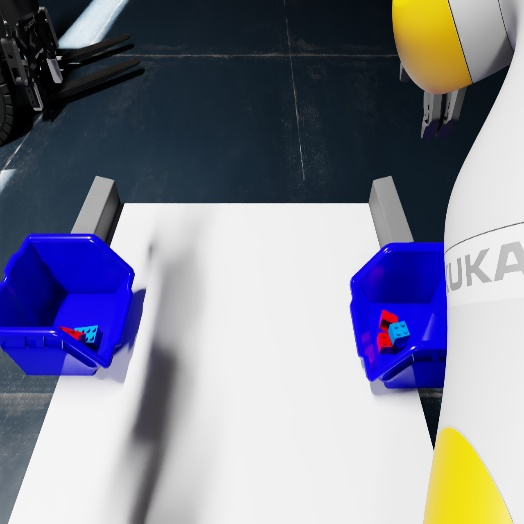
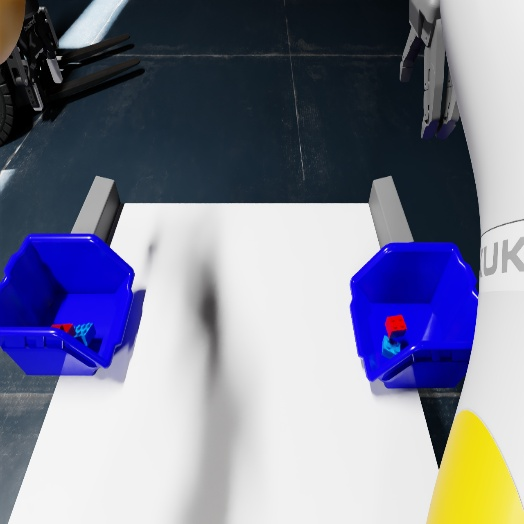
Test 4 run 1

diff --git a/p6_ws/src/robutler/object_detector/object_detector/object_detector.py b/p6_ws/src/robutler/object_detector/object_detector/object_detector.py
@@ -393,9 +393,13 @@ class ObjectDetector(Node):
                 grasps = self.grasp_prediction(point_cloud_masked, num_candidates=1) # num_candidates is the number of grasps to be generated
                 self.get_logger().info(f'Grasps: {grasps}.\n')
                 # Check if the grasp is near a blocked zone(container)
-                if grasps and len(grasps) > 0 and hasattr(self, "blocked_points") and self.is_near_blocked_zone(grasps[0][:2], self.blocked_points):
+                if not grasps:
+                    self.get_logger().error(f"Skipping object as it does not have a valid grasp.")
+                    continue
+                if hasattr(self, "blocked_points") and self.is_near_blocked_zone(grasps[0][:2], self.blocked_points):
                     self.get_logger().info(f"Skipping object at {grasps[0][:2]} due to proximity to blocked area")
                     continue
+
 
                 all_grasps.extend(grasps)
 
@@ -476,7 +480,10 @@ class ObjectDetector(Node):
                 grasps = self.grasp_prediction(point_cloud_masked, num_candidates=1) # num_candidates is the number of grasps to be generated
                 self.get_logger().info(f'Grasps: {grasps}.\n')
                 # Check if the grasp is near a blocked zone(container)
-                if grasps and len(grasps) > 0 and hasattr(self, "blocked_points") and self.is_near_blocked_zone(grasps[0][:2], self.blocked_points):
+                if not grasps:
+                    self.get_logger().error(f"Skipping object as it does not have a valid grasp.")
+                    continue
+                if hasattr(self, "blocked_points") and self.is_near_blocked_zone(grasps[0][:2], self.blocked_points):
                     self.get_logger().info(f"Skipping object at {grasps[0][:2]} due to proximity to blocked area")
                     continue
                 all_grasps.extend(grasps)
